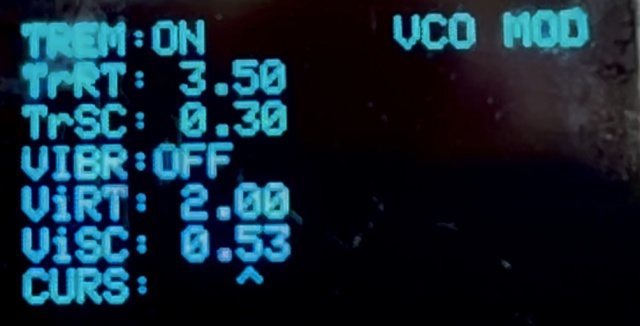
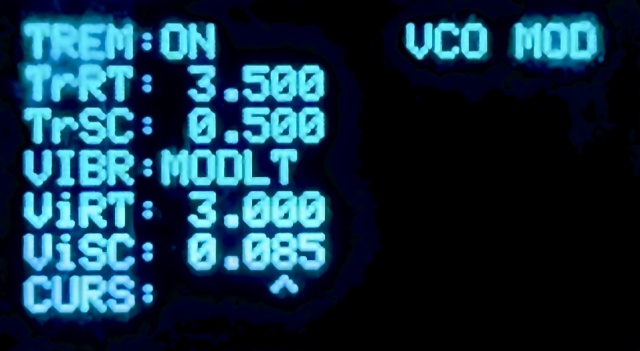
Doc

diff --git a/Doc/SoundMaking_jp.md b/Doc/SoundMaking_jp.md
@@ -344,7 +344,10 @@
 #### 7-2-1. TREM (RT1)  
 
 	トレモロのON/OFFを設定します。  
-	
+	OFF: トレモロを無効にします。
+	ON: トレモロを常時適用します。
+	MODLT: モジュレーションホイールによってトレモロを適用します。
+
 #### 7-2-2. TrRT (RT2)  
 
 	トレモロの速さを設定します。  
@@ -359,6 +362,9 @@
 #### 7-3-1. VIBR (RT4)  
 
 	ビブラートのON/OFFを設定します。  
+	OFF: ビブラートを無効にします。
+	ON: ビブラートを常時適用します。
+	MODLT: モジュレーションホイールによってビブラートを適用します。
 
 #### 7-3-2. ViRT (RT5)  
 

diff --git a/Doc/UsersManual_jp.md b/Doc/UsersManual_jp.md
@@ -277,6 +277,9 @@
 ### 9-2. TREM (RT1)  
 
 	トレモロのON/OFFを設定します。  
+	OFF: トレモロを無効にします。
+	ON: トレモロを常時適用します。
+	MODLT: モジュレーションホイールによってトレモロを適用します。
 	
 ### 9-3. TrRT (RT2)  
 
@@ -289,6 +292,9 @@
 ### 9-5. VIBR (RT4)  
 
 	ビブラートのON/OFFを設定します。  
+	OFF: ビブラートを無効にします。
+	ON: ビブラートを常時適用します。
+	MODLT: モジュレーションホイールによってビブラートを適用します。
 
 ### 9-6. ViRT (RT5)  
 

diff --git a/Doc/SoundMaking.md b/Doc/SoundMaking.md
@@ -320,8 +320,11 @@ Key scale sensitivity from -9 to +9.
 
 #### 7-2-1. TREM  
 
-Turn on the tremolo.
-	
+Turn on the tremolo.  
+	- OFF: Disabled.  
+	- ON: Always ON.  
+	- MODLT: Enable with the modulation wheel.  
+
 #### 7-2-2. TrRT  
 
 Set the speed of the tremolo.  
@@ -334,7 +337,10 @@ Set the effect depth of the tremolo.
 
 #### 7-3-1. VIBR  
 
-Turn on the vibrate.
+Turn on the vibrate.  
+	- OFF: Disabled.  
+	- ON: Always ON.  
+	- MODLT: Enable with the modulation wheel.  
 
 #### 7-3-2. ViRT  
 

diff --git a/Doc/UsersManual.md b/Doc/UsersManual.md
@@ -274,7 +274,10 @@ You can edit tremolo and vibrate modulations to the VCO.
 
 ### 9-2. TREM (RT1)  
 
-Turn on the tremolo.
+Turn on the tremolo.  
+	- OFF: Disabled.  
+	- ON: Always ON.  
+	- MODLT: Enable with the modulation wheel.  
 	
 ### 9-3. TrRT (RT2)  
 
@@ -286,7 +289,10 @@ Set the effect depth of the tremolo.
 
 ### 9-5. VIBR (RT4)  
 
-Turn on the vibrate.
+Turn on the vibrate.  
+	- OFF: Disabled.  
+	- ON: Always ON.  
+	- MODLT: Enable with the modulation wheel.  
 
 ### 9-6. ViRT (RT5)  
 
